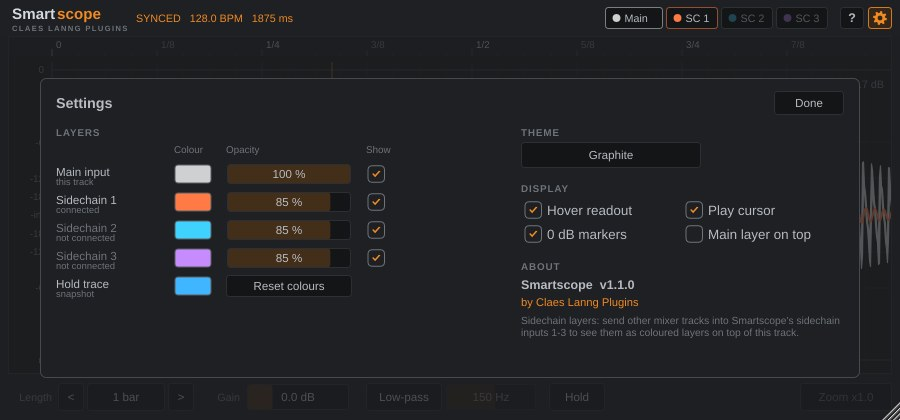
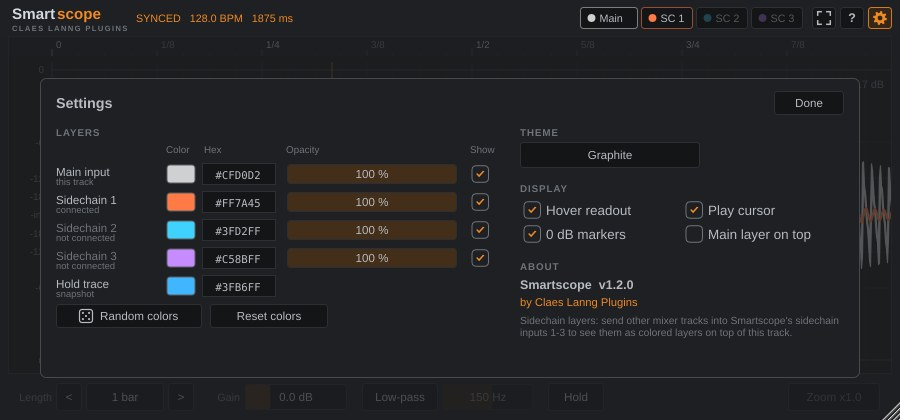
Smartscope page: v1.2.0
Version 1.2 in the hero, install steps and JSON-LD. Copy for the small
window sizes, scope-only view, hex codes and random colors. Fresh
screenshots from the v1.2.0 build. US spelling.

Claude-Session: https://claude.ai/code/session_01PC7LNEMzzdLxLFVPNTZXQM

diff --git a/smartscope/index.html b/smartscope/index.html
@@ -4,7 +4,7 @@
 <meta charset="utf-8">
 <meta name="viewport" content="width=device-width, initial-scale=1">
 <title>Smartscope: see if your kick and bass are in phase | Claes Lanng Plugins</title>
-<meta name="description" content="Smartscope is a free, tempo-synced oscilloscope VST3 for Windows. Show your kick and bass as coloured layers, zoom to single samples and check their phase.">
+<meta name="description" content="Smartscope is a free, tempo-synced oscilloscope VST3 for Windows. Show your kick and bass as colored layers, zoom to single samples and check their phase.">
 <meta property="og:title" content="Smartscope by Claes Lanng Plugins">
 <meta property="og:description" content="A free, tempo-synced oscilloscope for checking that your kick and bass are in phase.">
 <meta property="og:image" content="https://claeslanng.shop/assets/img/smartscope/hero.jpg">
@@ -24,7 +24,7 @@
  "applicationCategory": "MultimediaApplication",
  "applicationSubCategory": "Audio plugin (VST3)",
  "operatingSystem": "Windows 10, Windows 11",
- "softwareVersion": "1.1.0",
+ "softwareVersion": "1.2.0",
  "downloadUrl": "https://github.com/claeslanng/Smartscope/releases/latest",
  "image": "https://claeslanng.shop/assets/img/smartscope/hero.jpg",
  "offers": {
@@ -69,10 +69,10 @@
         <a class="btn btn-download" href="https://github.com/claeslanng/Smartscope/releases/latest">Download for Windows</a>
         <a class="btn btn-quiet" href="https://github.com/claeslanng/Smartscope">Source code</a>
       </div>
-      <p class="fineprint">Version 1.1. Free. VST3 for Windows 10 and 11 (64-bit), made for FL Studio.</p>
+      <p class="fineprint">Version 1.2. Free. VST3 for Windows 10 and 11 (64-bit), made for FL Studio.</p>
       <figure class="shot">
-        <img src="../assets/img/smartscope/hero.jpg" width="1000" height="460" alt="Smartscope showing one bar: a kick on sidechain 1 in orange over a bass in grey">
-        <figcaption>A kick on sidechain 1 (orange) drawn over the bass on the same track (grey), one bar long.</figcaption>
+        <img src="../assets/img/smartscope/hero.jpg" width="1000" height="460" alt="Smartscope showing one bar: a kick on sidechain 1 in orange over a bass in gray">
+        <figcaption>A kick on sidechain 1 (orange) drawn over the bass on the same track (gray), one bar long.</figcaption>
       </figure>
     </div>
   </section>
@@ -83,7 +83,7 @@
       <p class="intro">An oscilloscope that follows your project's tempo and song position, so the picture stands still while your loop plays.</p>
       <dl class="features">
         <div><dt>Tempo sync</dt><dd>The window always starts on the beat. Pick a length from 1/16 to 4 bars.</dd></div>
-        <div><dt>Sidechain layers</dt><dd>Send up to three other tracks into Smartscope and see each as its own coloured layer.</dd></div>
+        <div><dt>Sidechain layers</dt><dd>Send up to three other tracks into Smartscope and see each as its own colored layer.</dd></div>
         <div><dt>See the polarity</dt><dd>A linear scale shows which way each wave swings, so kick and bass fighting each other is easy to spot.</dd></div>
         <div><dt>Zoom to single samples</dt><dd>Scroll in until you see every sample. The grid switches to milliseconds, and hovering shows the exact time and level.</dd></div>
         <div><dt>Low-pass for the display</dt><dd>Hide everything but the low end. It never changes your audio, and it still works while playback is stopped.</dd></div>
@@ -105,10 +105,10 @@
   <section class="section" aria-labelledby="size-title">
     <div class="wrap">
       <h2 id="size-title">Make it as big as you like</h2>
-      <p class="intro">Drag the corner from a small strip up to 7680&nbsp;×&nbsp;4320. Detach the window in FL Studio and give it a whole second monitor, a TV or a tablet. The grid and dB labels get finer as it grows, and the size is saved with your project.</p>
+      <p class="intro">Drag the corner anywhere from a 240&nbsp;×&nbsp;110 strip up to 7680&nbsp;×&nbsp;4320. Detach the window in FL Studio and give it a whole second monitor, a TV or a tablet, or tuck it into a corner. The grid and dB labels get finer as it grows, and the controls make room as it shrinks. One click on the corners button hides everything but the display. The size is saved with your project.</p>
       <figure class="shot">
-        <img src="../assets/img/smartscope/fullscreen.jpg" width="1911" height="989" loading="lazy" alt="Smartscope filling a second monitor in FL Studio, showing the kick in blue over the bass in grey">
-        <figcaption>Filling a second monitor: the kick on sidechain 2 (blue) over the bass (grey).</figcaption>
+        <img src="../assets/img/smartscope/fullscreen.jpg" width="1911" height="989" loading="lazy" alt="Smartscope filling a second monitor in FL Studio, showing the kick in blue over the bass in gray">
+        <figcaption>Filling a second monitor: the kick on sidechain 2 (blue) over the bass (gray).</figcaption>
       </figure>
     </div>
   </section>
@@ -129,23 +129,23 @@
       </div>
       <figure class="shot">
         <img src="../assets/img/smartscope/fl-studio.jpg" width="1122" height="913" loading="lazy" alt="Two Smartscope windows in FL Studio: a drums track with kick, clap and perc on three sidechain layers, and a bass track with the kick on sidechain 2">
-        <figcaption>In FL Studio. Top: the drums, with the kick (orange), clap (blue) and a perc hit (purple) on sidechains 1 to 3. Bottom: the bass (grey) with the kick on sidechain 2 (blue).</figcaption>
+        <figcaption>In FL Studio. Top: the drums, with the kick (orange), clap (blue) and a perc hit (purple) on sidechains 1 to 3. Bottom: the bass (gray) with the kick on sidechain 2 (blue).</figcaption>
       </figure>
     </div>
   </section>
 
   <section class="section" aria-labelledby="look-title">
     <div class="wrap">
-      <h2 id="look-title">Your colours</h2>
-      <p class="intro">Four themes, and a colour and opacity for every layer. Your choices are saved with the project.</p>
+      <h2 id="look-title">Your colors</h2>
+      <p class="intro">Four themes, and a color and opacity for every layer. Pick a color, type a hex code like #556BAA, or roll the dice for new sidechain colors that stay easy to see. Your choices are saved with the project.</p>
       <div class="gallery wide">
         <figure class="shot">
           <img src="../assets/img/smartscope/themes.jpg" width="1200" height="558" loading="lazy" alt="Smartscope in the Graphite, Midnight, Phosphor and Daylight themes">
           <figcaption>Graphite, Midnight, Phosphor and Daylight.</figcaption>
         </figure>
         <figure class="shot">
-          <img src="../assets/img/smartscope/settings.jpg" width="900" height="420" loading="lazy" alt="Smartscope settings: theme, layer colours and opacity, display options">
-          <figcaption>Settings: theme, layer colours, and display options.</figcaption>
+          <img src="../assets/img/smartscope/settings.jpg" width="900" height="420" loading="lazy" alt="Smartscope settings: theme, layer colors and opacity, display options">
+          <figcaption>Settings: theme, layer colors, and display options.</figcaption>
         </figure>
       </div>
     </div>
@@ -159,7 +159,7 @@
           <p>Needs Windows 10 or 11 (64-bit) and a DAW that loads VST3 plugins, such as FL Studio. Takes about a minute.</p>
         </div>
         <ol class="steps">
-          <li><span>Download <code>Smartscope-v1.1.0-Windows-VST3.zip</code> and unzip it.</span></li>
+          <li><span>Download <code>Smartscope-v1.2.0-Windows-VST3.zip</code> and unzip it.</span></li>
           <li><span>Copy the <code>Smartscope.vst3</code> folder into <code>C:\Program Files\Common Files\VST3</code>.</span></li>
           <li><span>In FL Studio, open <strong>Options</strong>, then <strong>Manage plugins</strong>, and click <strong>Find more plugins</strong>. Add Smartscope to a mixer track.</span></li>
         </ol>

diff --git a/CLAUDE.md b/CLAUDE.md
@@ -44,8 +44,11 @@ page also has JSON-LD (SoftwareApplication) and a canonical link.
 
 ## Facts to keep accurate
 
-- **Smartscope:** version 1.1, download https://github.com/claeslanng/Smartscope/releases/latest.
-  Resizes up to 7680 × 4320 (the owner wants this promoted: second monitor, TV, tablet).
+- **Smartscope:** version 1.2, download https://github.com/claeslanng/Smartscope/releases/latest.
+  Resizes from 240 × 110 up to 7680 × 4320, and has a scope-only view (the owner wants
+  this promoted: second monitor, TV, tablet). Colors: picker, #RRGGBB hex box, and a dice
+  button for random sidechain colors.
+- **Spelling:** US English on the Smartscope page ("color", "gray"), matching the plugin.
 - **PitchScope:** version 0.9 beta (a pre-release, so link to `/releases`, not `/releases/latest`), repo `claeslanng/Pitchscope`
 - **Flow FMX Host:** version 0.3, download https://github.com/claeslanng/flow-fmx-host/releases/latest
 - **Requirements:** Windows 10 or 11 (64-bit), a VST3 host. Flow FMX Host also needs WebView2.
